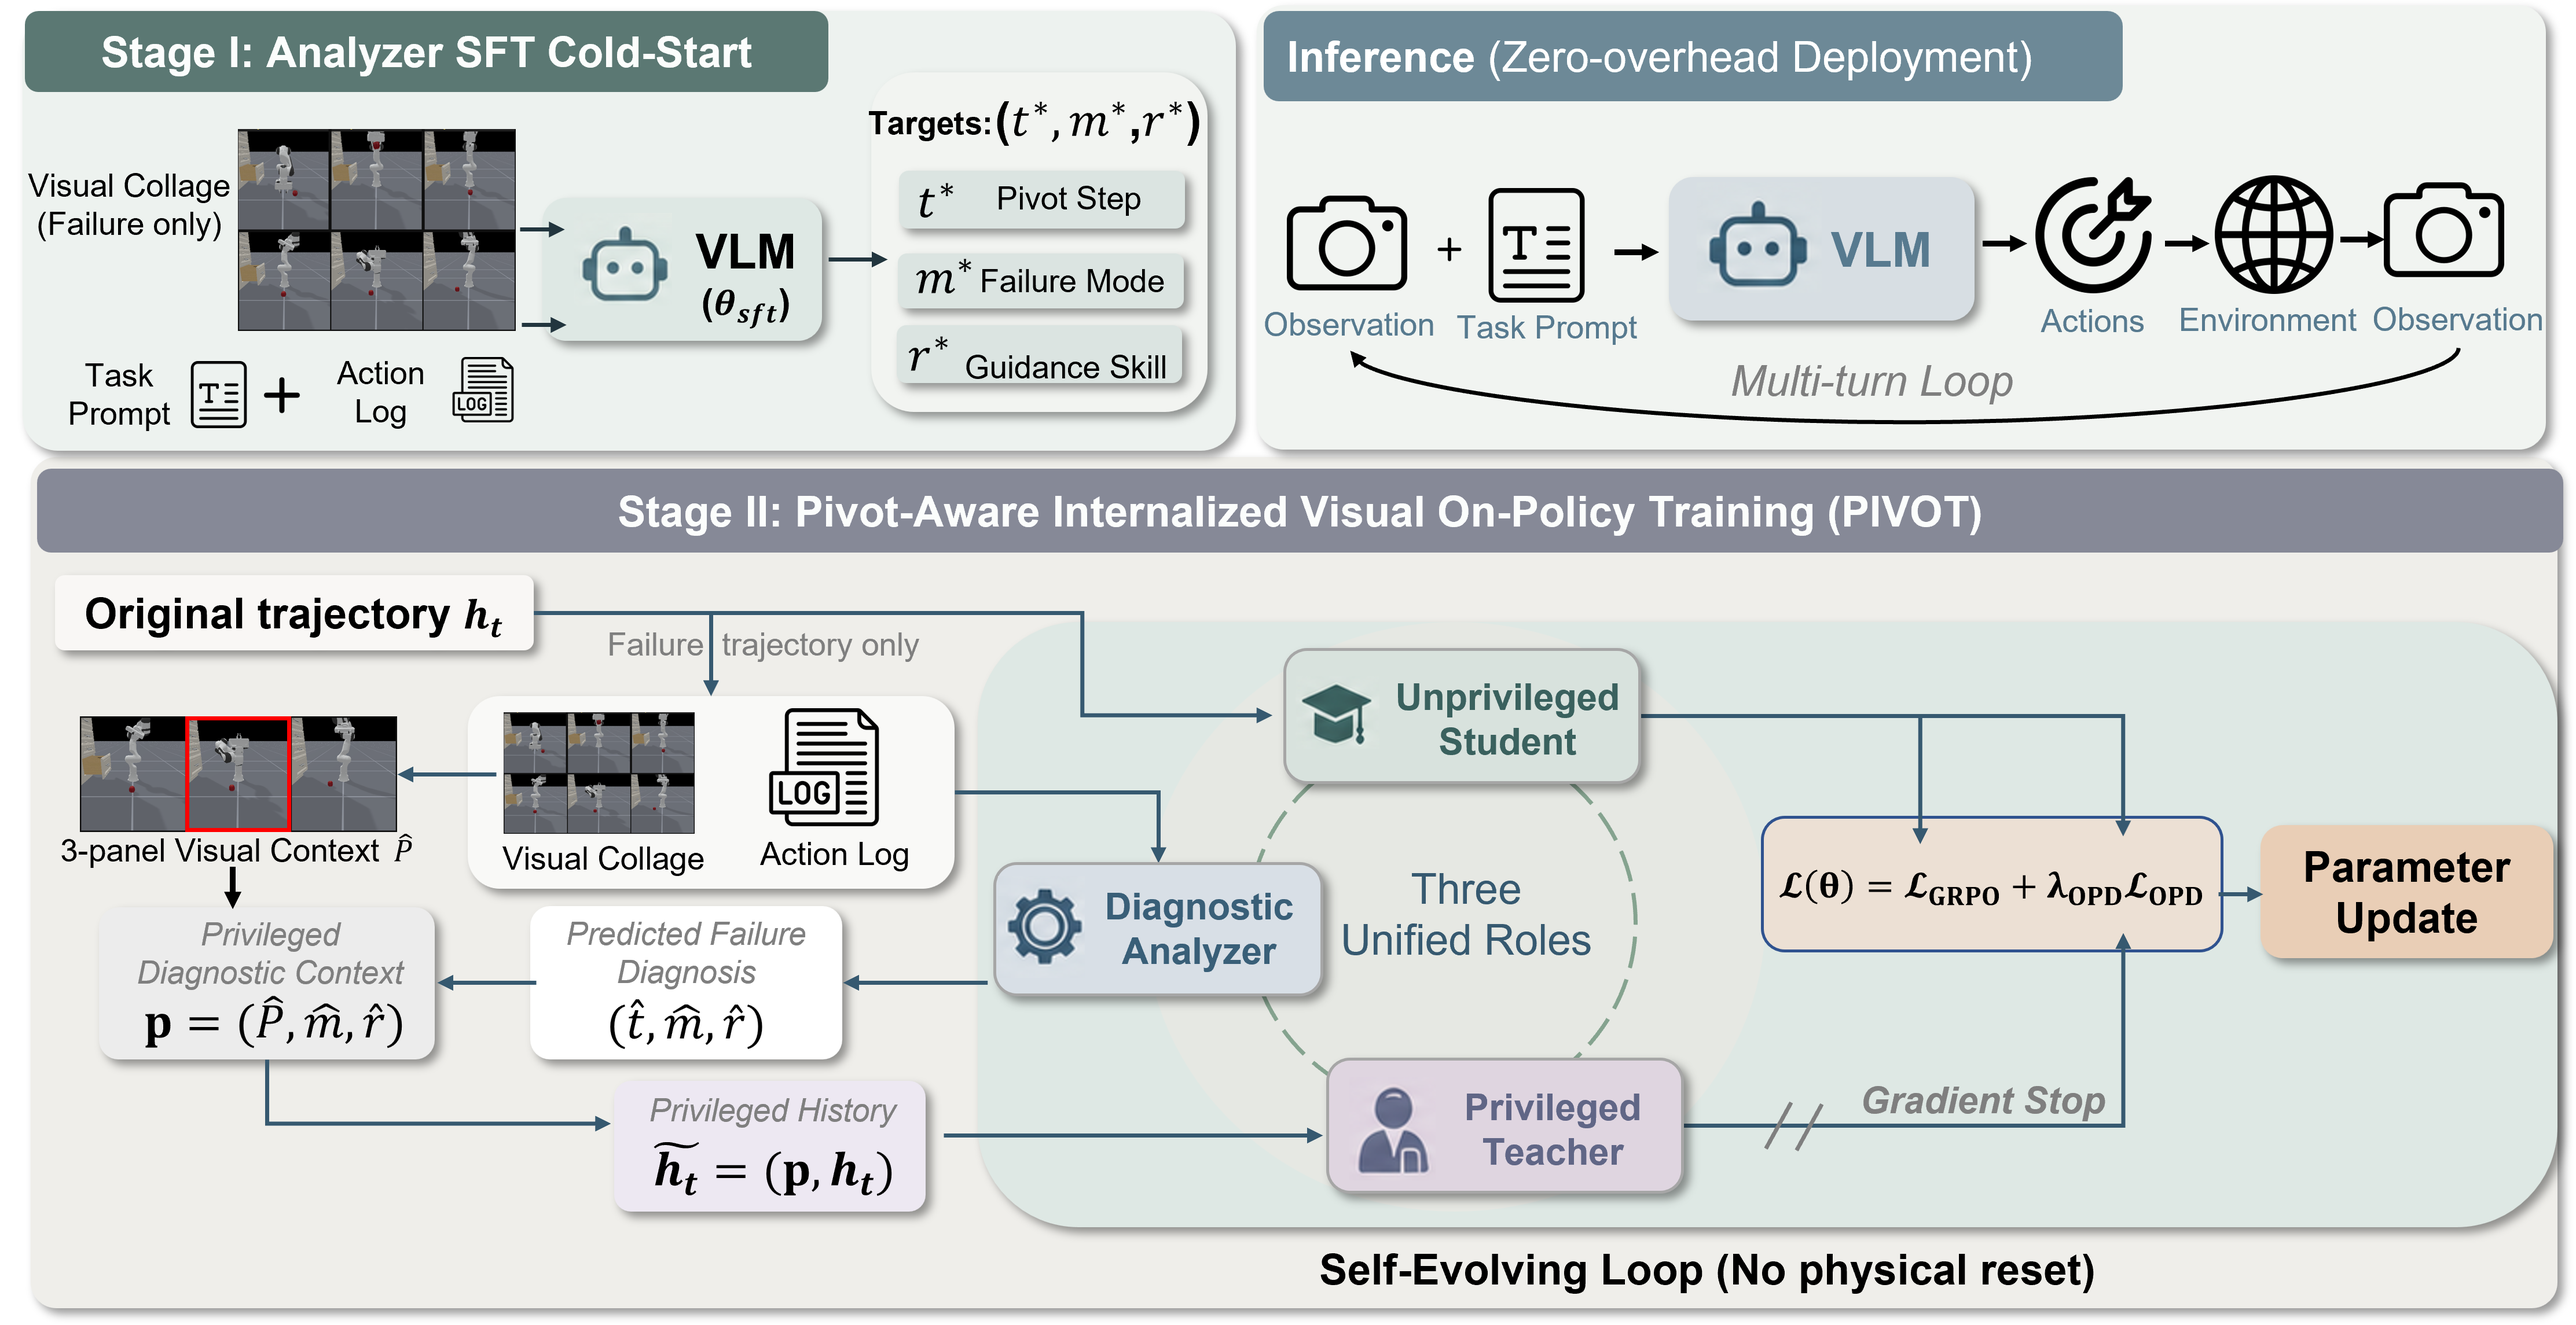
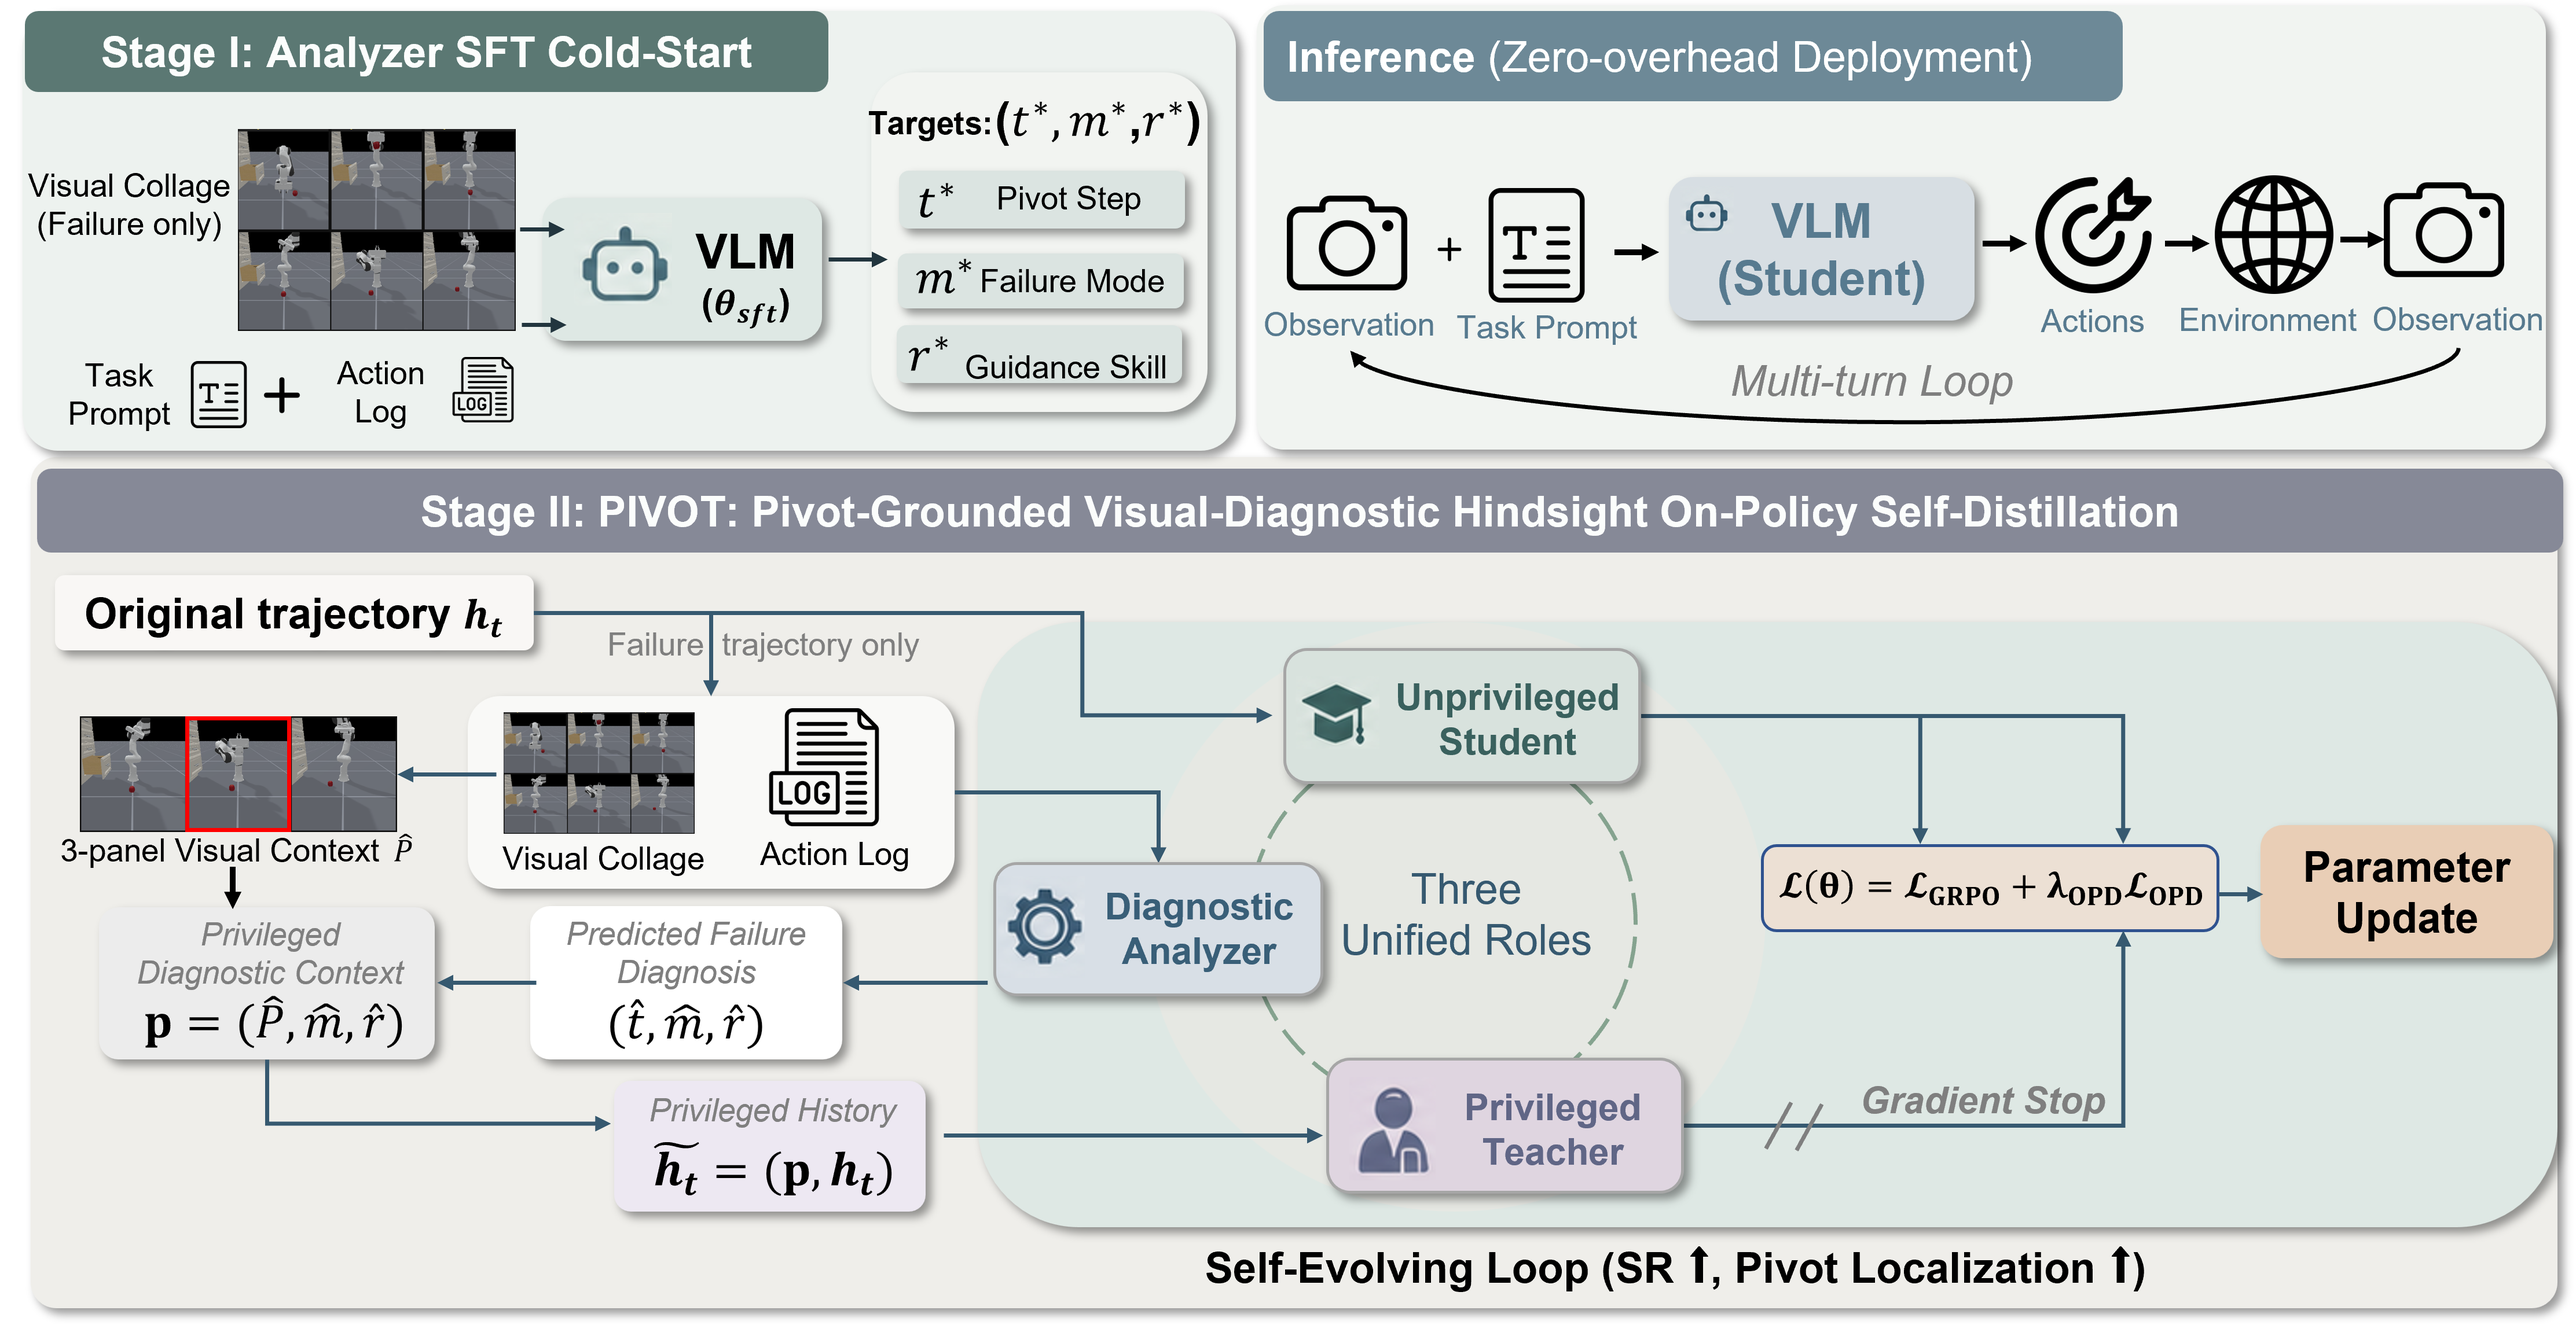
Update method overview figure to match the latest paper artwork.

diff --git a/index.html b/index.html
@@ -247,7 +247,7 @@
 
           <figure class="figure">
             <div class="figure-frame">
-              <img src="figures/Framework.png" alt="PIVOT architecture overview: Stage I SFT warm-up, Stage II unified three-role RL with visual-diagnostic hindsight, and zero-overhead Student inference.">
+              <img src="figures/Framework.png?v=16" alt="PIVOT architecture overview: Stage I SFT warm-up, Stage II unified three-role RL with visual-diagnostic hindsight, and zero-overhead Student inference.">
             </div>
             <figcaption>Stage I cold-starts the Analyzer on visual collages and action logs. Stage II builds a 3-panel visual hindsight crop around the predicted pivot so a detached Teacher re-scores the original failed tokens. Inference keeps only the Student.</figcaption>
           </figure>
